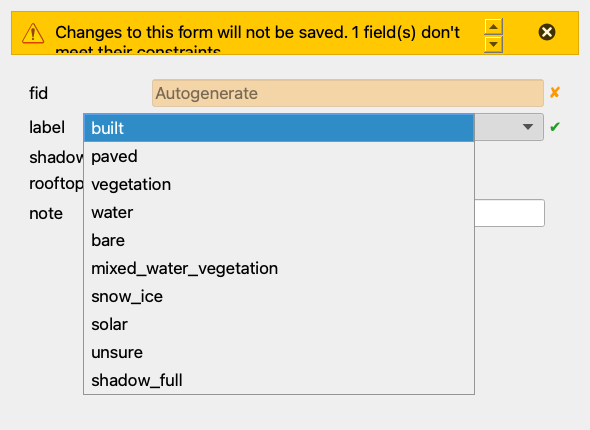
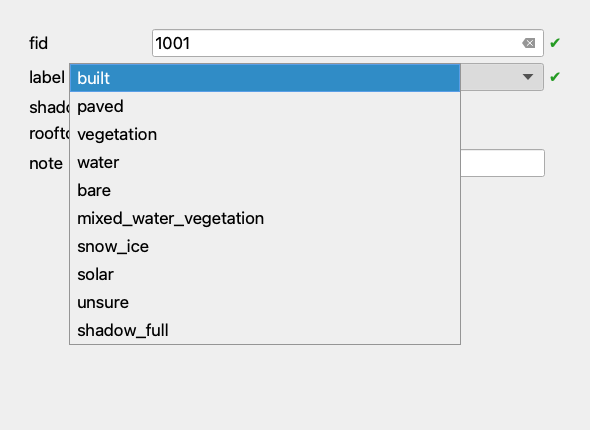
Validate final provenance and geometry against original candidates and Phase A rules

diff --git a/tools/labelling/validate.py b/tools/labelling/validate.py
@@ -1,0 +1,196 @@
+"""Read-only Item 21 topology, branch-rule and provenance audit."""
+import argparse
+from collections import defaultdict
+from dataclasses import fields
+import json
+import math
+from pathlib import Path
+import sys
+import sqlite3
+from tempfile import TemporaryDirectory
+
+import pyogrio
+from shapely import union_all
+from shapely.geometry import box, mapping
+from shapely.validation import explain_validity
+
+from labelling.common import load_config
+from labelling.fractions import LabelQCError, parse_features, tile_fractions
+from labelling.records import RecordError, TileRecord
+from labelling.tiles import tile_grid
+from .guard import authorize_tile, load
+
+ORIGINS = ("hand_drawn", "prelabel_kept", "prelabel_edited", "unknown")
+SOURCE_FIELDS = ("source", "source_id", "source_version", "candidate_id")
+
+
+def text(value):
+    if value is None or isinstance(value, float) and math.isnan(value):
+        return ""
+    return str(value).strip()
+
+
+def load_candidates(tile):
+    path = tile.path / "prelabels.gpkg"
+    index = {}
+    if path.exists():
+        for layer, kind in pyogrio.list_layers(path):
+            if kind is None:
+                continue
+            gdf = pyogrio.read_dataframe(path, layer=layer)
+            if gdf.crs is None or gdf.crs.to_string() != tile.crs:
+                raise ValueError(f"Different suggestion CRS in {layer}")
+            if "candidate_id" not in gdf:
+                continue
+            for row in gdf.to_dict("records"):
+                key = text(row["candidate_id"])
+                if not key or key in index:
+                    raise ValueError(f"Missing or duplicate suggestion ID in {layer}")
+                index[key] = row
+    return index
+
+
+def shares(tally):
+    total_count = sum(v[0] for v in tally.values())
+    total_area = sum(v[1] for v in tally.values())
+    summary = {}
+    for origin in ORIGINS:
+        count, area = tally.get(origin, (0, 0))
+        summary[origin] = dict(polygons=count, area_m2=area,
+                              polygon_share=count/total_count if total_count else None,
+                              area_share=area/total_area if total_area else None)
+    return summary
+
+
+def inspect_labels(table, tile, candidates, cfg):
+    errors, warnings, features, geometries = [], [], [], []
+    by_class = defaultdict(lambda: defaultdict(lambda: [0, 0.0]))
+    total = defaultdict(lambda: [0, 0.0])
+    used_ids = set()
+    boundary = box(*tile.bounds)
+    for fid, row in zip(table.index, table.to_dict("records")):
+        label = text(row.get("label")) or "missing_label"
+        origin = text(row.get("provenance"))
+        if origin not in ORIGINS[:-1]:
+            origin = "unknown"
+            errors.append(f"{fid}: missing or invalid provenance; review manually")
+        geom = row["geometry"]
+        good = geom is not None and not geom.is_empty and geom.is_valid and geom.geom_type in ("Polygon","MultiPolygon")
+        area = 0.0
+        if good:
+            cut = geom.intersection(boundary)
+            geometries.append(cut)
+            area = cut.area
+            if geom.difference(boundary).area > 1e-6:
+                errors.append(f"{fid}: label extends outside the registered tile")
+            feature = {"type":"Feature", "geometry":mapping(geom), "properties":row}
+            try:
+                parse_features([feature], cfg)
+                features.append(feature)
+            except LabelQCError as exc:
+                errors.append(f"{fid}: {exc}")
+        else:
+            reason = explain_validity(geom) if geom is not None else "missing"
+            errors.append(f"{fid}: empty, invalid or non-polygon geometry ({reason})")
+        for tally in (total[origin], by_class[label][origin]):
+            tally[0] += 1
+            tally[1] += area
+        tags = {k:text(row.get(k)) for k in SOURCE_FIELDS}
+        key = tags["candidate_id"]
+        if origin == "hand_drawn":
+            if key or tags["source_id"]:
+                errors.append(f"{fid}: hand-drawn polygon has an upstream suggestion ID")
+        elif origin in ("prelabel_kept","prelabel_edited"):
+            source = candidates.get(key)
+            if not all(tags.values()) or source is None:
+                errors.append(f"{fid}: missing source, version or matching suggestion")
+                continue
+            if key in used_ids and origin == "prelabel_kept":
+                errors.append(f"{fid}: duplicate unchanged copy of {key}")
+            used_ids.add(key)
+            if text(source.get("hint_only")).lower() not in ("0","false"):
+                errors.append(f"{fid}: a display-only hint cannot be accepted")
+            if any(tags[k] != text(source.get(k)) for k in SOURCE_FIELDS):
+                errors.append(f"{fid}: source fields differ from {key}")
+            if origin == "prelabel_kept" and good and (label != source["class"] or not geom.equals(source["geometry"])):
+                errors.append(f"{fid}: geometry or class differs from {key}; review edited provenance")
+    covered = union_all(geometries)
+    gap = boundary.difference(covered).area
+    overlap = max(0.0, sum(g.area for g in geometries) - covered.area)
+    # One square millimetre suppresses floating-point overlay residue on projected coordinates.
+    if gap > 1e-6 or overlap > 1e-6:
+        errors.append(f"Tile has {gap:.6f} m² uncovered and {overlap:.6f} m² excess overlapping area")
+    per_class = {k:shares(by_class[k]) for k in dict.fromkeys([*cfg['labels']['scored'],*cfg['labels']['excluded'],*by_class])}
+    kept = per_class["built"]["prelabel_kept"]
+    if max(kept["area_share"] or 0, kept["polygon_share"] or 0) > .5:
+        warnings.append("A majority of built area or polygons was kept unchanged from suggestions; inspect independently against the imagery.")
+    result = None
+    if len(features) == len(table):
+        grid = tile_grid(tile.crs, tile.bounds[0], tile.bounds[3], tile.bounds[2]-tile.bounds[0])
+        try:
+            f = tile_fractions(features, grid, cfg, cfg["open"]["max_excluded_share_per_cell"]["value"])
+            result = {k:float(f[k]) for k in ("pct_unsure","pct_shadow_full")}
+            result.update(scored_cells=int(f["scored"].sum()), total_cells=f["scored"].size)
+        except LabelQCError as exc:
+            errors.append(str(exc))
+    return dict(errors=errors, warnings=warnings, tile=tile.tile_id, polygons=len(table),
+                uncovered_m2=gap, overlap_excess_m2=overlap, provenance=shares(total),
+                by_class=per_class, fractions=result)
+
+
+def sun_record(tile, meta, cfg):
+    """Run the branch's shadow-line resolver against a consistent private copy."""
+    from labelling.sun_geometry import run
+    with TemporaryDirectory(prefix="item21-qc-") as directory:
+        scratch = Path(directory)
+        (scratch/"metadata.json").write_text(json.dumps(meta))
+        with sqlite3.connect((tile.path/"sun.gpkg").as_uri()+"?mode=ro", uri=True) as source:
+            with sqlite3.connect(scratch/"sun.gpkg") as dest:
+                source.backup(dest)
+        run(str(scratch), cfg)
+        return load(scratch/"metadata.json")
+
+
+def audit(tile_dir):
+    tile = authorize_tile(tile_dir)
+    table = pyogrio.read_dataframe(tile.path/"labels.gpkg", layer="labels", fid_as_index=True)
+    if table.crs is None or table.crs.to_string() != tile.crs:
+        raise ValueError("Label CRS differs from the registered image")
+    cfg = load_config()
+    report = inspect_labels(table, tile, load_candidates(tile), cfg)
+    if tile.city != "practice":
+        meta = load(tile.path/"metadata.json")
+        if meta.get("sun_geometry_required") and (tile.path/"sun.gpkg").is_file():
+            try:
+                meta = sun_record(tile, meta, cfg)
+                report["measured_sun"] = {k:meta[k] for k in TileRecord.SUN_FIELDS}
+            except (ValueError, RuntimeError) as exc:
+                report["errors"].append(f"Sun measurements: {exc}")
+        args = {f.name:meta.get(f.name) for f in fields(TileRecord)}
+        if report["fractions"]:
+            args.update({k:report["fractions"][k] for k in ("pct_unsure","pct_shadow_full")})
+        try:
+            TileRecord(**args).validate(cfg)
+        except (RecordError, ValueError) as exc:
+            report["errors"].append(str(exc))
+        if str(meta.get("change_test_result","")).lower().startswith("dropped"):
+            report["errors"].append("Tile was dropped by the frozen change test")
+    report["ok"] = not report["errors"]
+    return report
+
+
+def main(argv=None):
+    parser=argparse.ArgumentParser(description=__doc__)
+    parser.add_argument("tile_dir",type=Path)
+    args=parser.parse_args(argv)
+    try:
+        report=audit(args.tile_dir)
+    except (ValueError, OSError, KeyError, TypeError, RuntimeError) as exc:
+        print(json.dumps({"ok":False, "errors":[str(exc)]}))
+        return 2
+    print(json.dumps(report,indent=2,allow_nan=False))
+    return 0 if report["ok"] else 1
+
+
+if __name__ == "__main__":
+    sys.exit(main())

diff --git a/tools/labelling/tests/test_validate.py b/tools/labelling/tests/test_validate.py
@@ -1,0 +1,57 @@
+import geopandas as gpd
+from shapely.geometry import box, Polygon
+from tools.labelling.guard import TileSpec
+from tools.labelling.validate import inspect_labels
+from labelling.common import load_config
+
+
+def test_full_tile_provenance_and_coverage():
+    tile=TileSpec(None,'practice','test',None,'EPSG:32734',(0,0,200,200))
+    sources=dict(source='Open Buildings',source_id='a',source_version='v3',candidate_id='built:a')
+    a=box(0,0,125,200)
+    b=box(125,0,200,200)
+    record=dict(label='built',shadow_partial=False,rooftop_solar=False)
+    table=gpd.GeoDataFrame([{**record,**sources,'provenance':'prelabel_kept','geometry':a},
+                            {**record,'provenance':'hand_drawn','geometry':b}], crs=tile.crs)
+    candidates={'built:a':{**sources,'class':'built','geometry':a,'hint_only':False}}
+    r=inspect_labels(table,tile,candidates,load_config())
+    assert r['errors']==[] and r['fractions']['scored_cells']==400
+    assert r['by_class']['built']['prelabel_kept']['area_share']==.625
+    assert r['by_class']['built']['prelabel_kept']['polygon_share']==.5
+    assert r['warnings']
+    table.loc[0,'label']='paved'
+    assert any('differs' in e for e in inspect_labels(table,tile,candidates,load_config())['errors'])
+    table.loc[0,'provenance']='prelabel_edited'
+    assert not inspect_labels(table,tile,candidates,load_config())['errors']
+    candidates['built:a']['hint_only']=True
+    assert any('display-only' in e for e in inspect_labels(table,tile,candidates,load_config())['errors'])
+
+
+def test_exact_topology_and_unknown_legacy_origin():
+    tile=TileSpec(None,'practice','test',None,'EPSG:32734',(0,0,200,200))
+    table=gpd.GeoDataFrame([dict(label='bare',geometry=box(0,0,100.1,198)),
+                           dict(label='water',geometry=box(100,0,200,200)),
+                           dict(label='built',geometry=Polygon([(0,0),(5,5),(5,0),(0,5)]))],crs=tile.crs)
+    r=inspect_labels(table,tile,{},load_config())
+    assert r['overlap_excess_m2']>0 and r['uncovered_m2']>0
+    assert r['provenance']['unknown']['polygons']==3
+    assert any('invalid' in e for e in r['errors']) and r['fractions'] is None
+
+
+def test_sun_resolver_receives_only_private_copies(tmp_path,monkeypatch):
+    import json,sqlite3
+    from labelling import sun_geometry
+    from tools.labelling.validate import sun_record
+    tile=TileSpec(tmp_path,'lima','test',None,'EPSG:32718',(0,0,200,200))
+    meta={'labeller':'example'}
+    (tmp_path/'metadata.json').write_text(json.dumps(meta))
+    with sqlite3.connect(tmp_path/'sun.gpkg') as db:
+        db.execute('CREATE TABLE lines (id INTEGER)')
+    before={f.name:f.read_bytes() for f in tmp_path.iterdir()}
+    def resolve(p,cfg):
+        from pathlib import Path
+        assert Path(p)!=tmp_path
+        (Path(p)/'metadata.json').write_text(json.dumps(dict(meta,sun_geometry_n_buildings=3)))
+    monkeypatch.setattr(sun_geometry,'run',resolve)
+    assert sun_record(tile,meta,{})['sun_geometry_n_buildings']==3
+    assert {f.name:f.read_bytes() for f in tmp_path.iterdir()}==before

diff --git a/tools/labelling/tests/test_candidates.py b/tools/labelling/tests/test_candidates.py
@@ -10,7 +10,7 @@ from rasterio.io import MemoryFile
 from shapely.geometry import Polygon, box
 
 from tools.labelling import generate as gen
-from tools.labelling.candidate_imagery import imagery_candidates, rgb_masks
+from tools.labelling.candidate_imagery import _imagery_candidates, rgb_masks
 from tools.labelling.candidate_sources import _map_elements, _osm_features, _suggest
 
 
@@ -58,7 +58,7 @@ def test_texture_hints_shadow_and_unobserved_pixels_are_separate():
                      transform=Affine.translation(320000,2500000)*Affine.scale(1,-1),photometric="RGB") as src:
             src.write(rgb)
             src.write_mask(valid.astype("uint8")*255)
-            rows, receipt=imagery_candidates(src,"test")
+            rows, receipt=_imagery_candidates(src,"test")
     assert receipt["mask_valid_cells"]==210
     assert any(r["class"]=="vegetation" and not r["hint_only"] for r in rows)
     assert all(r["hint_only"] and r["needs_check"] for r in rows if r["class"] in ("water","shadow_full"))
@@ -97,3 +97,38 @@ def test_gate_precedes_source_or_pixel_access(tmp_path,monkeypatch):
     monkeypatch.setattr(gen.rasterio,"open",lambda *a:pytest.fail("image read before guard"))
     with pytest.raises(ValueError,match="held out"):gen.generate(tmp_path)
     assert calls==["guard"] and not (tmp_path/"prelabels.gpkg").exists()
+
+
+def test_vector_query_entrypoint_refuses_unregistered_heldout_and_makes_no_cache(tmp_path):
+    from tools.labelling.candidate_sources import vector_sources
+    from tools.labelling.guard import TileRefused
+    heldout=tmp_path/"makoko"
+    heldout.mkdir()
+    with pytest.raises(TileRefused):
+        vector_sources(heldout,tmp_path/"untouched")
+    assert not (tmp_path/"untouched").exists()
+
+
+def test_generate_in_private_practice_copy_and_preserve_existing_files(tmp_path,monkeypatch):
+    """Set ITEM21_PRACTICE_COPY to a private practice tile to exercise real image/metadata geometry."""
+    import hashlib
+    import os
+    import shutil
+    available=os.getenv("ITEM21_PRACTICE_COPY")
+    if not available:
+        pytest.skip("set ITEM21_PRACTICE_COPY to an existing practice tile for the offline smoke test")
+    source=Path(available).resolve()
+    assert source.name.startswith("PRACTICE_")
+    target=tmp_path/"practice"/source.name
+    target.mkdir(parents=True)
+    for name in ("hr.tif","tile.geojson","cells.geojson","metadata.json","labels.gpkg"):
+        shutil.copyfile(source/name,target/name)
+    def checksums():
+        return {f.name:hashlib.sha256(f.read_bytes()).hexdigest() for f in target.iterdir() if f.name!="prelabels.gpkg"}
+    before=checksums()
+    monkeypatch.setattr(gen,"vector_sources",lambda *a:([],{"osm":{"status":"offline_test"}}))
+    receipt=gen.generate(target,cache=tmp_path/"cache")
+    assert (target/"prelabels.gpkg").is_file() and receipt["sources"]["tile_rgb"]["status"]=="available"
+    with pytest.raises(FileExistsError):
+        gen.generate(target,cache=tmp_path/"cache")
+    assert before==checksums()

diff --git a/tools/labelling/generate.py b/tools/labelling/generate.py
@@ -13,11 +13,10 @@ import numpy as np
 import pandas as pd
 import pyogrio
 import rasterio
-from rasterio.warp import transform_bounds
 import shapely
 from shapely.geometry import box
 
-from .candidate_imagery import imagery_candidates
+from .candidate_imagery import _imagery_candidates
 from .candidate_sources import check_disk, vector_sources
 from .guard import authorize_tile
 
@@ -110,10 +109,9 @@ def generate(tile_dir, *, cache=None, output_dir=None):
         bounds = tuple(src.bounds)
         if src.crs.to_string() != spec.crs or not np.allclose(bounds,spec.bounds,rtol=0,atol=1e-4):
             raise ValueError("The image header changed after authorization")
-        rgb, rgb_status = imagery_candidates(src, imagery_version)
+        rgb, rgb_status = _imagery_candidates(src, imagery_version)
         affine = src.transform
-    ext = transform_bounds(spec.crs,4326,*bounds)
-    vector, sources = vector_sources(ext, spec.crs, cache)
+    vector, sources = vector_sources(folder, cache)
     rows, duplicates = clean_candidates(vector + rgb,bounds,affine,spec.tile_id)
     counts = {layer:sum(r["layer"]==layer for r in rows) for layer in LAYERS}
     receipt = {"tile_id":spec.tile_id,"bounds":bounds,"crs":spec.crs,"version":"item21-assist-v1",

diff --git a/tools/labelling/candidate_sources.py b/tools/labelling/candidate_sources.py
@@ -206,9 +206,13 @@ def _osm_features(elements, project):
     return out
 
 
-def vector_sources(bounds, crs, cache):
-    """Query footprints and OSM serially. Receipts distinguish empty coverage from source errors."""
-    project = Transformer.from_crs(4326, crs, always_xy=True).transform
+def vector_sources(tile_dir, cache):
+    """Read source geometries only for a registered tile, even when called outside the generator."""
+    from rasterio.warp import transform_bounds
+    from .guard import authorize_tile
+    tile = authorize_tile(tile_dir)
+    bounds = transform_bounds(tile.crs, 4326, *tile.bounds)
+    project = Transformer.from_crs(4326, tile.crs, always_xy=True).transform
     output, receipts = [], {}
     for source in ("open_buildings", "microsoft", "osm"):
         key = ["tile-vector-v1" if source != "osm" else "tile-map-v2", list(bounds), source]

diff --git a/tools/labelling/candidate_imagery.py b/tools/labelling/candidate_imagery.py
@@ -28,7 +28,7 @@ def rgb_masks(channels, observed):
     return {"vegetation_rgb":green, "hint_water_rgb":blue, "hint_shadow_rgb":shadow}
 
 
-def imagery_candidates(src, imagery_version):
+def _imagery_candidates(src, imagery_version):
     if src.dtypes[:3] != ("uint8",) * 3 or not all(c in src.colorinterp for c in
             (ColorInterp.red, ColorInterp.green, ColorInterp.blue)):
         return [], {"status":"unavailable", "reason":"RGB candidate rules require identified 8-bit RGB bands"}

diff --git a/tools/labelling/CANDIDATES.md b/tools/labelling/CANDIDATES.md
@@ -1,0 +1,17 @@
+# Candidate sources and regeneration
+
+From the Item 21 worktree, point the repository Python environment at a training or practice tile. Earth Engine uses the existing authenticated project. If needed, supply its existing project ID in `GEE_PROJECT_ID`. One invocation handles one tile. The fixed output is a new `prelabels.gpkg` beside its image. The source cache belongs outside the repository.
+
+```sh
+caffeinate -i env OPENBLAS_NUM_THREADS=1 OMP_NUM_THREADS=1 python -m tools.labelling.generate "$tile_dir"
+```
+
+The generator checks the registered footprint and split before reading pixels or issuing queries. A second run preserves an existing package and returns an error. Use an authorized private copy for experiments or a fresh recipient tile. Every output layer has its class, immutable candidate ID, upstream source and ID, release/version information, source-supplied confidence when available, and mandatory review flag. The GeoPackage dataset metadata contains the complete tile receipt, source statuses, dates, attributions, candidate counts and deduplication counts. An empty query has a separate status from a failed source.
+
+## Candidate construction
+
+- **Buildings.** Google Open Buildings v3 uses the branch's signed-off confidence cutoff of 0.70. Footprints from Microsoft's legacy satellite-derived Earth Engine collection and mapped OSM buildings can add objects. Review in that order, taking the higher Google confidence first. If at least half the smaller of two building outlines overlaps, keep the higher-priority candidate. This conservative suggestion rule can suppress real adjoining roofs or retain shifted outlines. Review the actual roof or base convention for that image. The Microsoft mirror and hand-mapped OSM supplement avoid downloading country-scale files. A missing Google or Microsoft footprint says nothing about what is on the ground. [Google Open Buildings v3 and CC BY 4.0 terms](https://developers.google.com/earth-engine/datasets/catalog/GOOGLE_Research_open-buildings_v3_polygons)
+- **Roads and sealed areas.** Use a numeric OSM width in metres or feet first. Otherwise the repository road-width table uses motorway 12 m, trunk 10, primary 9, secondary 8, tertiary 7, residential/unclassified/living street 5, service 4, track/pedestrian 3, cycleway 2, and footway/path 1.5. Each centreline is buffered by half the width. Track/path/footway need an explicit sealed material. Explicit unsealed surfaces, covered ways or tunnels are skipped. Surface parking and area:highway outlines must be checked against the image for soil, roof cover and trees. Underground, multistorey and rooftop parking do not become paved candidates. Multipolygon water outlines preserve mapped islands. Land-use green polygons appear only as hints. OSM is a current snapshot and can disagree with the historical tile. The OSM bbox API returns ways touching the query by member nodes, which can miss large polygons encompassing a tile. Incomplete multipolygon relations are omitted and counted. The shared Overpass client provides a second endpoint path if the map request fails. [© OpenStreetMap contributors, ODbL](https://www.openstreetmap.org/copyright)
+- **Microsoft attribution.** The actual provider queries the sat-io `MSBuildings` country collections. The mirror's own catalog documents a May 2022 release under ODbL, while Microsoft's current upstream distribution cites CDLA Permissive 2.0. The asset ID, update timestamp when published, and query date travel with each receipt. [Mirror metadata and notice](https://gee-community-catalog.org/projects/msbuildings/) · [Current Microsoft distribution](https://github.com/microsoft/GlobalMLBuildingFootprints)
+- **Vegetation, water colour and shadow.** These eight images have red, green and blue bands. Work at up to 800 pixels on the long axis of a 200 m tile. RGB excess green proposes vegetation at a normalised contrast of at least 0.13 with green above red and blue by more than six byte levels. Smooth blue-green patches appear only as water hints. Dark patches are also hint-only; a person decides whether the underlying class can be identified. The method can confuse blue roofs and water, green roofs and vegetation, or dark water and shadow. Small four-connected components are filtered using a 4 m² suggestion floor for vegetation and darkness and 8 m² for water hints. These fixed thresholds reduce speckle in the review queue. They have **no effect on the minimum size Kanveer can label**. Guide v1.6 gives roof-cluster and gap conventions, and no universal polygon area minimum. Raw-image conditions and acquisition dates are retained from each tile's metadata.
+- **Geometry.** Clip to the actual 200 m tile and snap candidate vertices to its original image pixel-edge lattice. Retain valid polygons of at least a native raster pixel. A person can trace smaller, complex or previously missed surfaces and can reject or edit any candidate.

diff --git a/STATUS.md b/STATUS.md
@@ -9,3 +9,5 @@ Phase 1 complete. Eight private training/practice GeoPackages passed geometry, i
 Phase 2 complete. QGIS 3.44.14 LTR reopened all 100 layers across eight relocated private projects. Their relative sources, guide forms, tile bookmarks and snapping survived relocation.
 
 Phase 3 complete. Keyboard review, explicit source attribution, native vertex edits, rejection log, drawing, remaining-area overlay, user-controlled timer and Mark tile done passed the QGIS edit lifecycle checks on a private practice copy.
+
+Phase 4 complete. Mark tile done validates exact vector coverage and runs the existing one-metre coverage, class-flag, 10 m fraction and metadata rules. Sun lines are resolved on private copies. Kept features are checked against their actual source class and geometry, and the report separates shares by area and count. Legacy labels with no provenance remain unknown; nothing is backfilled.
